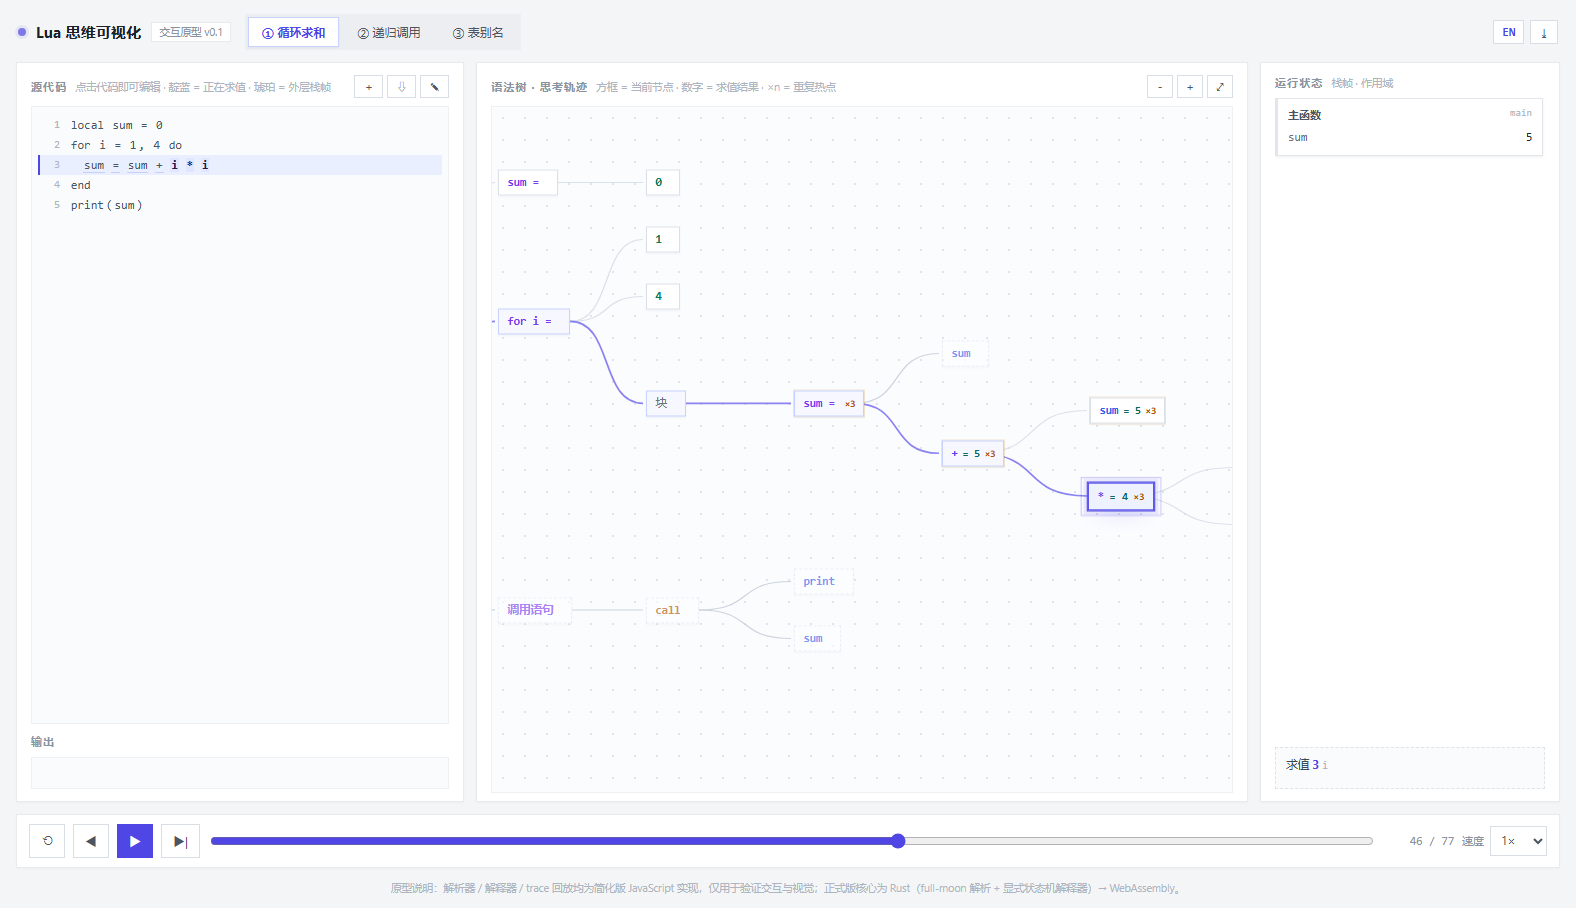
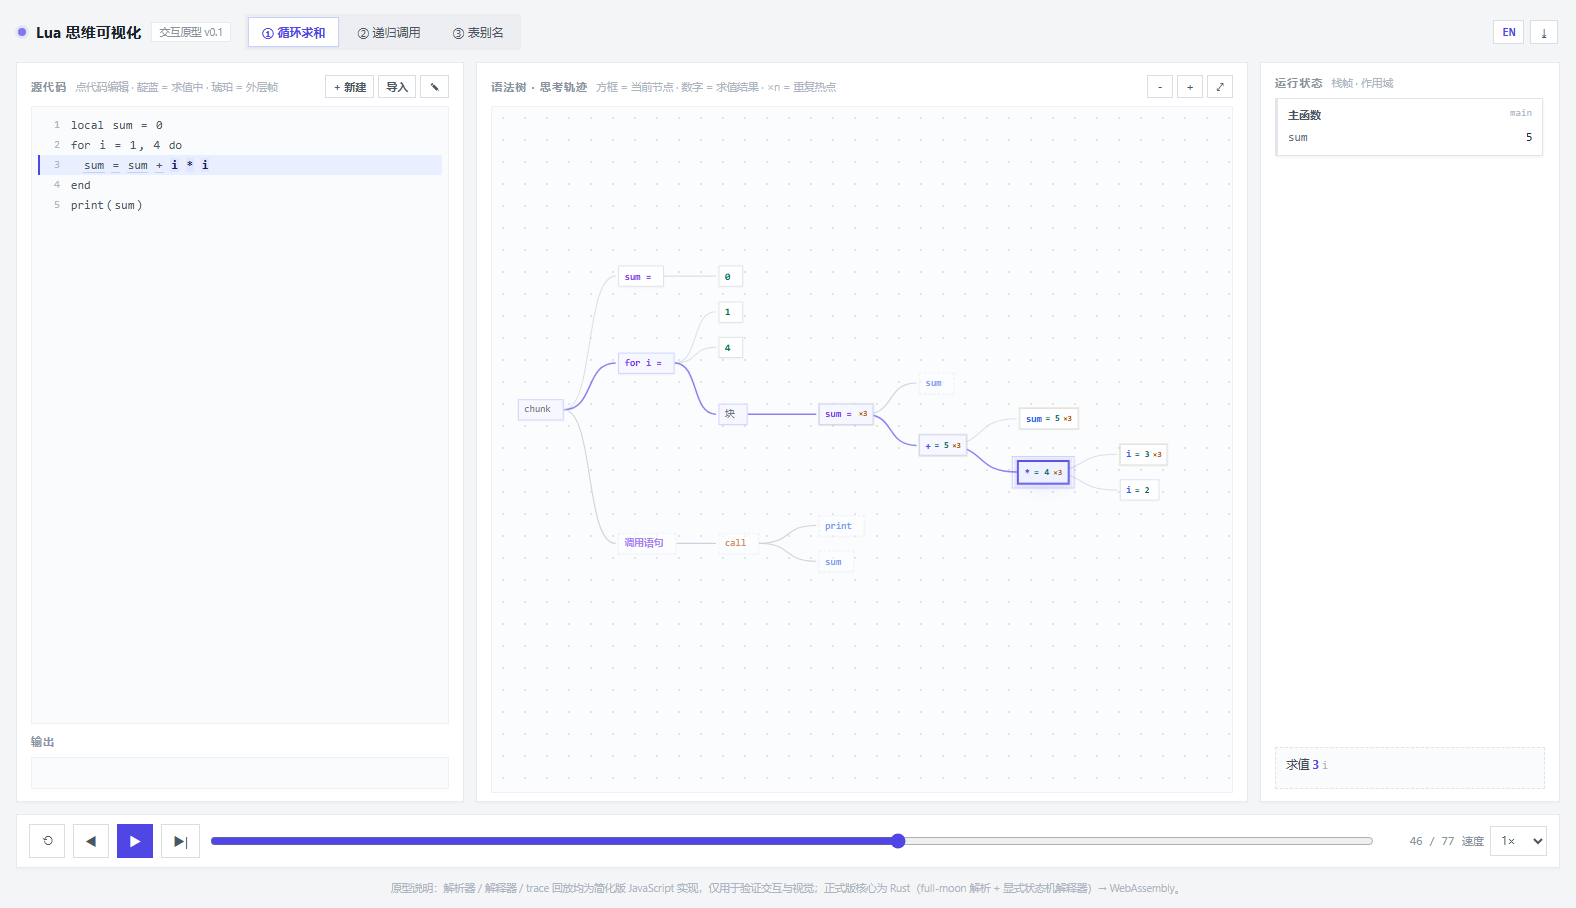
fix: visible new/import labels, tighter AST layout, fully static fit camera
- toolbar now shows text buttons '+ 新建' / '导入' (was icon-only, easy to miss)
- compact AST: row 38->30, col 148->114, node 26->24px, sibling gap 0.35
  loop sample tree 1012x534 -> 802x394, whole tree fits on screen at 0.94x
- camera: fit whole tree on load/run, then never move while the active node is
  inside the viewport (verified 0 camera moves across all 77 events; previously 6 pans in 31)
- docs + screenshots updated

diff --git a/app.js b/app.js
@@ -753,7 +753,7 @@ const I18N = {
     'pane.output': '输出',
     'pane.tree': '语法树 · 思考轨迹',
     'pane.state': '运行状态',
-    'hint.code': '点击代码即可编辑 · 靛蓝 = 正在求值 · 琥珀 = 外层栈帧',
+    'hint.code': '点代码编辑 · 靛蓝 = 求值中 · 琥珀 = 外层帧',
     'hint.codeEdit': '编辑中 · Ctrl+Enter 运行 · Tab 缩进 · Esc 取消',
     'hint.tree': '方框 = 当前节点 · 数字 = 求值结果 · ×n = 重复热点',
     'hint.state': '栈帧 · 作用域',
@@ -770,7 +770,9 @@ const I18N = {
     'btn.run': '▶ 运行',
     'btn.restore': '↺ 示例',
     'btn.new': '新建代码',
+    'btn.newText': '+ 新建',
     'btn.import': '导入 Lua 文件',
+    'btn.importText': '导入',
     'hint.new': '新程序 · Ctrl+Enter 运行',
     'hint.imported': '已导入 {name}',
     'err.file': '文件读取失败',
@@ -830,7 +832,9 @@ const I18N = {
     'btn.run': '▶ Run',
     'btn.restore': '↺ Sample',
     'btn.new': 'New code',
+    'btn.newText': '+ New',
     'btn.import': 'Import Lua file',
+    'btn.importText': 'Import',
     'hint.new': 'New program · Ctrl+Enter to run',
     'hint.imported': 'imported {name}',
     'err.file': 'Could not read the file',
@@ -1159,8 +1163,8 @@ function buildTree() {
   svg.appendChild(gEl);
   treeEl.appendChild(svg);
 
-  const ROW = 38;
-  const COL = 148;
+  const ROW = 30;
+  const COL = 114;
   const all = [];
   let leaf = 0;
 
@@ -1172,7 +1176,7 @@ function buildTree() {
       leaf++;
     } else {
       kids.forEach((c, i) => {
-        if (i > 0) leaf += 0.5; // 兄弟子树之间留呼吸间距，避免不同父节点的分支在视觉上混成一片
+        if (i > 0) leaf += 0.35; // 兄弟子树之间留呼吸间距，避免不同父节点的分支在视觉上混成一片
         place(c, depth + 1);
       });
       n.gy = (kids[0].gy + kids[kids.length - 1].gy) / 2;
@@ -1249,40 +1253,27 @@ function followTo(nodeId, center) {
   if (!n) return;
   const s = app.scale;
   const nw = (n._el && n._el.offsetWidth) || 70;
-  const nh = (n._el && n._el.offsetHeight) || 26;
-  const sx = (n.gx + nw / 2) * s + app.tx;
-  const sy = (n.gy + nh / 2) * s + app.ty;
-  const padX = Math.min(W * 0.16, 80) + (nw * s) / 2;
-  const padY = Math.min(H * 0.16, 70) + (nh * s) / 2;
-  const dl = padX;
-  const dr = W - padX;
-  const dt = padY;
-  const db = H - padY;
+  const nh = (n._el && n._el.offsetHeight) || 24;
+  const x1 = n.gx * s + app.tx;
+  const x2 = (n.gx + nw) * s + app.tx;
+  const y1 = n.gy * s + app.ty;
+  const y2 = (n.gy + nh) * s + app.ty;
   let dx = 0;
   let dy = 0;
   if (center) {
-    dx = W / 2 - sx;
-    dy = H / 2 - sy;
+    dx = W / 2 - (x1 + x2) / 2;
+    dy = H / 2 - (y1 + y2) / 2;
   } else {
-    if (dl > dr) dx = W / 2 - sx;
-    else if (sx < dl) dx = dl - sx;
-    else if (sx > dr) dx = dr - sx;
-    if (dt > db) dy = H / 2 - sy;
-    else if (sy < dt) dy = dt - sy;
-    else if (sy > db) dy = db - sy;
+    /* 只要节点完整地待在视口里就绝不动画面；越界了才一次性把它放到中间 */
+    const M = 20;
+    if (x2 > W - M || x1 < M || y2 > H - M || y1 < M) {
+      dx = W / 2 - (x1 + x2) / 2;
+      dy = H / 2 - (y1 + y2) / 2;
+    }
   }
   if (!dx && !dy) return;
-  const tw = app.treeW * s;
-  const th = app.treeH * s;
-  const E = 36; // 树比视口大时允许的越界留白
-  if (dx !== 0) {
-    if (tw > W - 2 * E) app.tx = Math.max(W - tw - E, Math.min(E, app.tx + dx));
-    else app.tx = (W - tw) / 2;
-  }
-  if (dy !== 0) {
-    if (th > H - 2 * E) app.ty = Math.max(H - th - E, Math.min(E, app.ty + dy));
-    else app.ty = (H - th) / 2;
-  }
+  app.tx += dx;
+  app.ty += dy;
   applyView();
 }
 
@@ -1293,10 +1284,13 @@ function fitTree() {
   const W = vp.clientWidth - 32;
   const H = vp.clientHeight - 32;
   const s = Math.min(W / Math.max(1, app.treeW), H / Math.max(1, app.treeH));
-  app.scale = Math.max(0.35, Math.min(1, Math.round(s * 100) / 100));
+  app.scale = Math.max(0.7, Math.min(1, Math.round(s * 100) / 100));
   app.userPanned = false;
   $('#tree').classList.remove('nofollow');
-  followTo(app.curId != null ? app.curId : (app.ast && app.ast.id), true);
+  app.tx = (vp.clientWidth - app.treeW * app.scale) / 2;
+  app.ty = (vp.clientHeight - app.treeH * app.scale) / 2;
+  applyView();
+  followTo(app.curId != null ? app.curId : (app.ast && app.ast.id));
 }
 
 function zoomBy(f) {
@@ -1553,6 +1547,7 @@ function runSource(src) {
   $('#scrub').max = String(Math.max(0, app.trace.events.length - 1));
   applyView();
   seek(0);
+  fitTree();
 }
 
 function loadProgram(key) {
@@ -1928,7 +1923,9 @@ function bindControls() {
   });
 
   window.addEventListener('resize', () => {
-    followTo(app.curId != null ? app.curId : (app.ast && app.ast.id));
+    if (app.editing) return;
+    if (!app.userPanned) fitTree();
+    else followTo(app.curId != null ? app.curId : (app.ast && app.ast.id));
   });
 
   if (new URLSearchParams(location.search).get('debug') === '1') {

diff --git a/style.css b/style.css
@@ -140,6 +140,7 @@ h1,h2{font-family:var(--sans)}
   background:var(--accent);border-color:var(--accent);color:#fff;font-weight:600;
 }
 .tbtn.run:hover{background:#4338ca;border-color:#4338ca;color:#fff}
+.pane-tools .tbtn.text{width:auto;min-width:26px;padding:0 7px;font-size:11px;font-weight:600}
 .tbtn[hidden]{display:none}
 .tree-viewport{
   position:relative;flex:1;min-height:180px;overflow:hidden;border-radius:0;
@@ -160,10 +161,10 @@ svg.edges{position:absolute;left:0;top:0;overflow:visible;pointer-events:none}
 .e.parent{stroke:#eab861;stroke-width:1.4;stroke-dasharray:3 3}
 
 .node{
-  position:absolute;display:inline-flex;align-items:center;gap:5px;height:26px;padding:0 8px;
+  position:absolute;display:inline-flex;align-items:center;gap:4px;height:24px;padding:0 6px;
   border-radius:0;background:var(--surface);
   border:1px solid #ccd3dd;color:#2b3442;
-  font-size:11.5px;line-height:1;white-space:nowrap;
+  font-size:11px;line-height:1;white-space:nowrap;
   box-shadow:0 1px 2px rgba(16,24,40,.04);
   transform:translateY(-50%);
   transition:background .15s,border-color .15s,color .15s,box-shadow .15s,opacity .15s,transform .12s;
@@ -177,8 +178,8 @@ svg.edges{position:absolute;left:0;top:0;overflow:visible;pointer-events:none}
 .node.c-call .lbl{color:var(--amber)}
 .node.c-stmt .lbl{color:#7c3aed}
 .node.c-blk .lbl{color:#6b7280;font-weight:500}
-.node .val{color:#0b6b5f;font-size:10.5px;font-weight:600}
-.node .heat{color:#b45309;font-size:9.5px;font-weight:700}
+.node .val{color:#0b6b5f;font-size:10px;font-weight:600}
+.node .heat{color:#b45309;font-size:9px;font-weight:700}
 
 .node.n-pending{opacity:.62;border-color:#e3e7ee;border-style:dashed;background:#fefefe}
 .node.n-done{opacity:1;border-color:#dbe0e8;background:#fff}

diff --git a/index.html b/index.html
@@ -38,8 +38,8 @@
         <h2 data-i18n="pane.code">源代码</h2>
         <span class="hint" id="codeHint">点击代码即可编辑 · 靛蓝 = 正在求值 · 琥珀 = 外层栈帧</span>
         <div class="pane-tools">
-          <button id="btnNew" class="tbtn" data-i18n-title="btn.new" title="新建代码">＋</button>
-          <button id="btnImport" class="tbtn" data-i18n-title="btn.import" title="导入 Lua 文件">⇩</button>
+          <button id="btnNew" class="tbtn text" data-i18n="btn.newText" data-i18n-title="btn.new" title="新建代码">+ 新建</button>
+          <button id="btnImport" class="tbtn text" data-i18n="btn.importText" data-i18n-title="btn.import" title="导入 Lua 文件">导入</button>
           <button id="btnEdit" class="tbtn" data-i18n-title="btn.edit" title="编辑代码">✎</button>
           <button id="btnRun" class="tbtn run" data-i18n-title="btn.editRun" title="运行 (Ctrl+Enter)" hidden>▶ 运行</button>
           <button id="btnRestore" class="tbtn" data-i18n-title="btn.restore" title="恢复示例代码" hidden>↺ 示例</button>

diff --git a/README.md b/README.md
@@ -19,7 +19,8 @@
 
 纯静态页面，双击 `index.html` 即可运行（file:// 也可以，不需要构建、不需要联网）。
 现在还支持**直接编辑代码并运行**、**新建 / 导入（含拖拽）Lua 文件**、**中英双语界面**、**安装为桌面 / 手机客户端（PWA，离线可用）**；
-语法树使用「死区跟随」相机，播放时只在必要时最小幅度平移，不会来回猛甩。
+语法树使用「整树自适应 + 死区跟随」相机：加载 / 运行后自动把整棵树缩放并居中放进树面板，
+播放时只要当前节点还在视口内，画面就完全不动；只有节点要移出视口时才一次性平移过去。
 
 ![总览](docs/images/hero.png)
 
@@ -81,14 +82,15 @@ python -m http.server 8080
 | 时间轴滑块 | 任意拖动回放（可直接看某一刻的状态） |
 | 树区域拖动 / 缩放按钮 | 平移、缩放；`⤢` 恢复「跟随当前节点」 |
 | 点击左侧代码 / 工具栏 `✎` | 进入编辑模式，直接改 Lua 代码 |
-| 工具栏 `＋` / `⇩` | 新建程序 / 导入 `.lua` 文件；也可以把文件直接拖进代码区（导入后自动运行） |
+| 工具栏 `+ 新建` / `导入` | 新建程序 / 导入 `.lua` 文件；也可以把文件直接拖进代码区（导入后自动运行） |
 | `Ctrl`/`⌘` + `Enter` | 运行编辑中的代码；解析错误会就地提示 |
 | `Esc` | 取消编辑，回到运行中的代码 |
 | 右上角 `EN / 中` | 切换中英文界面 |
 
 三个内置示例：循环求和、递归调用、表别名。输出分别为 **30 / 6 / 12**。
 
-相机是「死区跟随」：当前节点在视口内圈时画面完全不动，只有它快要移出时才做最小幅度平移；
+相机是「整树自适应 + 死区跟随」：加载 / 运行后先把整棵树缩放到刚好放进树面板并居中；
+播放时当前节点在视口内就绝不移动画面，只有节点快要移出视口时才一次性移到中间。
 点击某个节点、或点 `⤢` / 缩放按钮时会主动居中。这样播放时视线不会跟着每个事件来回甩。
 
 ### URL 参数（方便做截图与 UI 自动化）
@@ -138,7 +140,7 @@ lua-brain-proto/
 - 页面无异常、无 console error；时间轴拖动、单步、点击节点跳转、切示例程序均验证通过；
 - 代码编辑：自定义代码 `local x = 5 / print(x * 2)` 运行成功（19 个 trace 事件），解析错误就地显示；
 - 新建 / 导入：新建模板可直接运行；`importText()` 与拖拽导入均自动编译并运行（如 `local a = 2 / print(a*a)` 输出 `4`）；
-- 相机稳定性：在 31 个连续事件内只发生 6 次平移（旧实现每步都在居中），树尺寸从 1201×675 压缩到 1012×534（loop 示例）；
+- 相机稳定性：1666px 宽度下整树自动适配为 0.94 倍并完整可见；在 77 个连续事件里相机位置变化 **0 次**（上一版 31 步内 6 次平移）。树尺寸从 1201×675 压缩到 **802×394**（loop 示例，约 -33%）；
 - 中英双语：`?lang=en` 下标题 / 品牌 / 提示 / 栈帧文案全部切换，`EN / 中` 按钮可即时切换并记住选择；
 - PWA：manifest 与 Service Worker 注册成功，可安装、离线打开。
 

diff --git a/README.en.md b/README.en.md
@@ -85,16 +85,17 @@ The production desktop / mobile builds will ship as **Tauri 2** native apps (see
 | Timeline slider | Scrub to any moment (inspects that state directly) |
 | Drag / zoom buttons on the tree | Pan, zoom; `⤢` resumes "follow the current node" |
 | Click the code pane / `✎` | Enter edit mode and edit Lua directly |
-| Toolbar `＋` / `⇩` | New program / import a `.lua` file; you can also drag a file onto the code pane (runs automatically) |
+| Toolbar `+ New` / `Import` | New program / import a `.lua` file; you can also drag a file onto the code pane (runs automatically) |
 | `Ctrl`/`⌘` + `Enter` | Run the edited code; parse errors are shown inline |
 | `Esc` | Cancel editing and restore the running code |
 | `EN / 中` | Switch UI language |
 
 Three built-in samples: loop sum, recursion, table aliasing. Expected output: **30 / 6 / 12**.
 
-The camera follows a **dead zone**: it does not move while the current node is inside the viewport,
-and pans only the minimum needed when the node is about to leave; clicking a node, zooming or `⤢`
-re-centers on purpose. This keeps the view from whipping back and forth during playback.
+The camera does **fit-the-tree first, then follows a dead zone**: on load / run it scales and centers
+the whole tree inside the tree panel; during playback the view does not move at all while the current
+node is inside the viewport, and snaps once only when the node would leave it. Clicking a node,
+zooming or `⤢` re-centers on purpose.
 
 ### URL parameters (for screenshots and UI automation)
 

diff --git a/docs/DESIGN.en.md b/docs/DESIGN.en.md
@@ -77,11 +77,12 @@ Style: light, square, thin borders, one accent color — a *teaching dashboard*,
 - **The tree is a timeline**: click any node to jump to its next execution event.
 - **Editable code**: the source pane can be edited and run (prototype uses a highlighted layer plus a
   transparent textarea, keeping syntax colors and caret alignment); parse errors are shown inline.
-- **New / import**: `＋` creates a template; `⇩` picks a `.lua` file (or drag it onto the code pane)
-  and compiles/runs it immediately; parse errors are shown inline.
-- **Camera follow (dead zone)**: stays still while the current node is inside the viewport, pans the
-  minimum needed near the edges; clicking a node, zooming or `⤢` re-centers. Panning/zooming pauses
-  follow; on small screens the active code line is scrolled into view.
+- **New / import**: `+ New` creates a template; `Import` picks a `.lua` file (or drag it onto the
+  code pane) and compiles/runs it immediately; parse errors are shown inline.
+- **Camera (fit-the-tree + dead zone)**: on load/run the whole tree is scaled to fit and centered;
+  during playback it stays completely still while the current node is inside the viewport, and snaps
+  once only when the node would leave. Clicking a node, zooming or `⤢` re-centers. Panning/zooming
+  pauses follow; on small screens the active code line is scrolled into view.
 - **Bilingual**: UI strings and node kind names come from an i18n dictionary; `EN / 中` persists.
 
 ## 6. Layout & rendering

diff --git a/docs/DESIGN.md b/docs/DESIGN.md
@@ -76,11 +76,11 @@ RuntimeState（状态层）→ 渲染（树 / 源码 / 栈帧 / 输出）
 - **树即时间轴**：点击任意节点 → 跳到该节点下一次被执行的事件。
 - **代码即可编辑**：左侧源码区支持直接编辑并运行（原型用「高亮层 + 透明 textarea」叠层实现，
   保证语法着色与光标对齐）；解析错误就地显示，不破坏已有运行状态。
-- **新建 / 导入**：`＋` 新建模板；`⇩` 选择或把 `.lua` 文件拖进代码区，读取后自动编译运行
+- **新建 / 导入**：`+ 新建` 新建模板；`导入` 选择或把 `.lua` 文件拖进代码区，读取后自动编译运行
   （失败就地显示解析错误）。
-- **相机跟随（死区）**：当前节点在视口内圈时画面不动，接近边缘时才做最小幅度平移；
-  点击节点 / 缩放 / `⤢` 才主动居中。拖动或缩放后暂停跟随，`⤢` 恢复；
-  小屏上当前代码行会自动滚动到可见位置。
+- **相机（整树自适应 + 死区）**：加载 / 运行后先把整棵树缩放到刚好放进视口并居中；
+  播放时当前节点在视口内画面完全不动，节点要移出时才一次性平移。点击节点 / 缩放 / `⤢` 才主动居中；
+  拖动或缩放后暂停跟随，`⤢` 恢复；小屏上当前代码行会自动滚动到可见位置。
 - **双语**：界面文案与节点类型名全部走 i18n 词典，`EN / 中` 即时切换并持久化。
 
 ## 6. 布局与渲染
